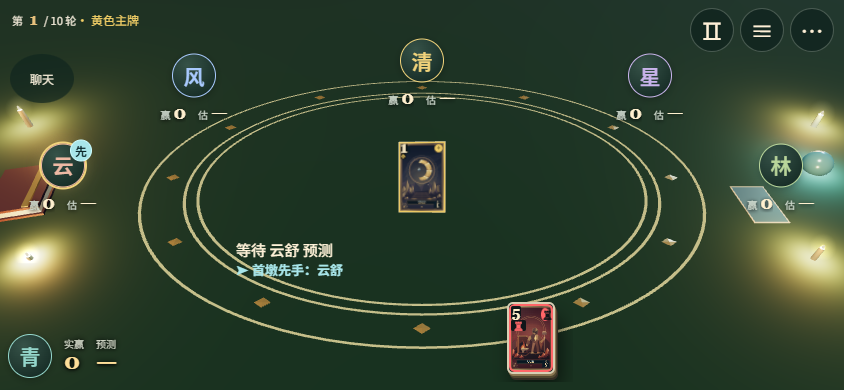
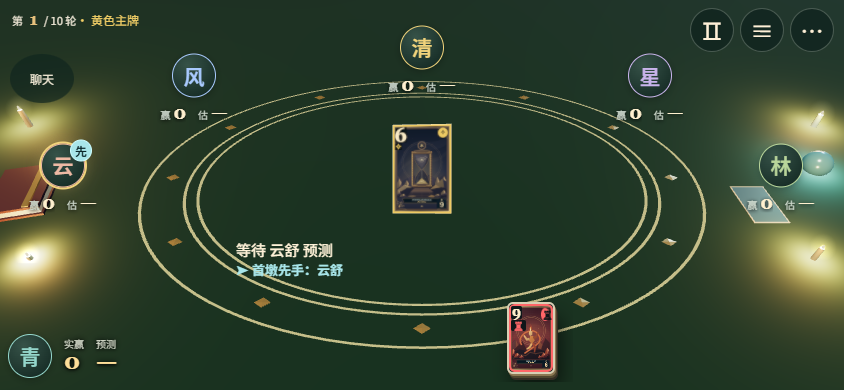
按反馈继续上移横屏顶部中间席位

diff --git a/src/hand-model.js b/src/hand-model.js
@@ -23,9 +23,9 @@ export function landscapeSeatPosition(index, self, count) {
   const seat = relativeSeat(index, self, count);
   const ring = {
     3: [[14,100],[18,27],[82,27]],
-    4: [[14,100],[6,76],[50,-2],[94,76]],
+    4: [[14,100],[6,76],[50,-12],[94,76]],
     5: [[14,100],[6,76],[32,9],[68,9],[94,76]],
-    6: [[14,100],[6,76],[23,9],[50,-2],[77,9],[94,76]],
+    6: [[14,100],[6,76],[23,9],[50,-12],[77,9],[94,76]],
   }[count];
   return { seat, x: ring[seat][0], y: ring[seat][1] };
 }

diff --git a/docs/dev-memory/HISTORY.md b/docs/dev-memory/HISTORY.md
@@ -302,3 +302,4 @@
 - 本地最终验证：211/211 单测、JavaScript 语法、生产构建、既有 17 组布局／原生触控／确认出牌、六组二维三维牌面及真实纹理检查、10 组聊天键盘模拟和 Git 空白检查通过；均无页面错误。保留既有 Three.js 分包提示，无依赖或工作流改动。键盘模拟覆盖发送、草稿／焦点、关闭重开、缩小布局视口和键盘收起恢复；不声称真实手机键盘／GPU 验收。
 - 测试边界记录：首个手动主牌样本因非首席身份不符合练习恢复校验而被拒，改用合法第七轮庄家样本重测；初次容量检查命中 Vite 缓存的旧 3／5 条模块，核对实际响应并重启开发服务后重新验收。未修改恢复约束或放宽可见消息断言。忽略提交的脚本与几何结果在 `.local/compact-trump-review.mjs`、`.local/chat-capacity-review.mjs` 和 `output/playwright/*review.json`；代码、截图与开发记录共同提交中文 PR，远端 CI 状态另行核对，不自动合并／发布。
 - 围桌追加验证的边界：既有扩展 `scripts/table-clarity-review.mjs` 在点击 `.close-scores` 时等待稳定性超时，未记为通过，未使用强制点击。上述 16 组席位专项通过的范围仅为实际几何和边界；原有 17 组触控／选牌检查另已通过。本轮未对计分关闭控件的超时做历史归因或修改该扩展脚本。
+- PR #6 创建后，用户复看截图要求顶部中间席位再上移；四人／六人方案的中央顶部位置再上移约 14px（844×390），同步更新效果图。16 组围桌边界专项、211 项单测及生产构建再次通过，继续更新同一个 PR。首版提交 `47b9e87` 的远端 Verify game #17 已通过；后续提交的检查状态单独核对。
